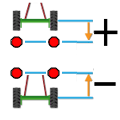
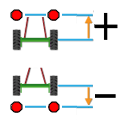
Fix antenna settings

diff --git a/SourceCode/Twol/Forms/Guidance/FormToolSteer.cs b/SourceCode/Twol/Forms/Guidance/FormToolSteer.cs
@@ -64,6 +64,8 @@ namespace Twol
             nudAntennaHeight_Tool.Value = Settings.Tool.setToolSteer.antennaHeight;
             nudAntennaOffset_Tool.Value = Settings.Tool.setToolSteer.antennaOffset;
             nudNudge.Value = Settings.Tool.setToolSteer.nudgeGlobal;
+            nudDualHeadingOffset.Value = Settings.Tool.setToolSteer.dualHeadingOffset;
+
 
             cboxIsFollowCurrent.Checked = Settings.Tool.setToolSteer.isFollowCurrent;
             cboxIsPassiveSteering.Checked = Settings.Tool.setToolSteer.isPassiveSteering;
